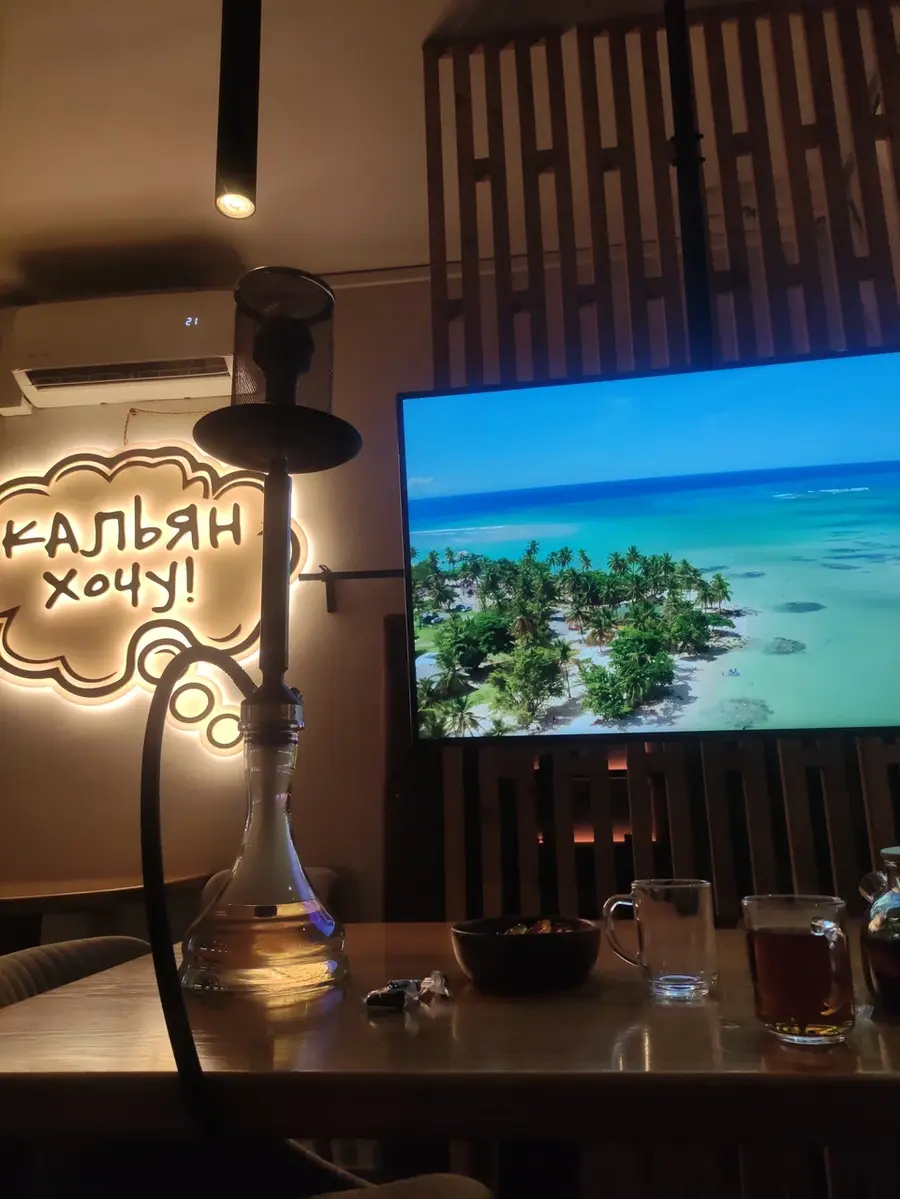
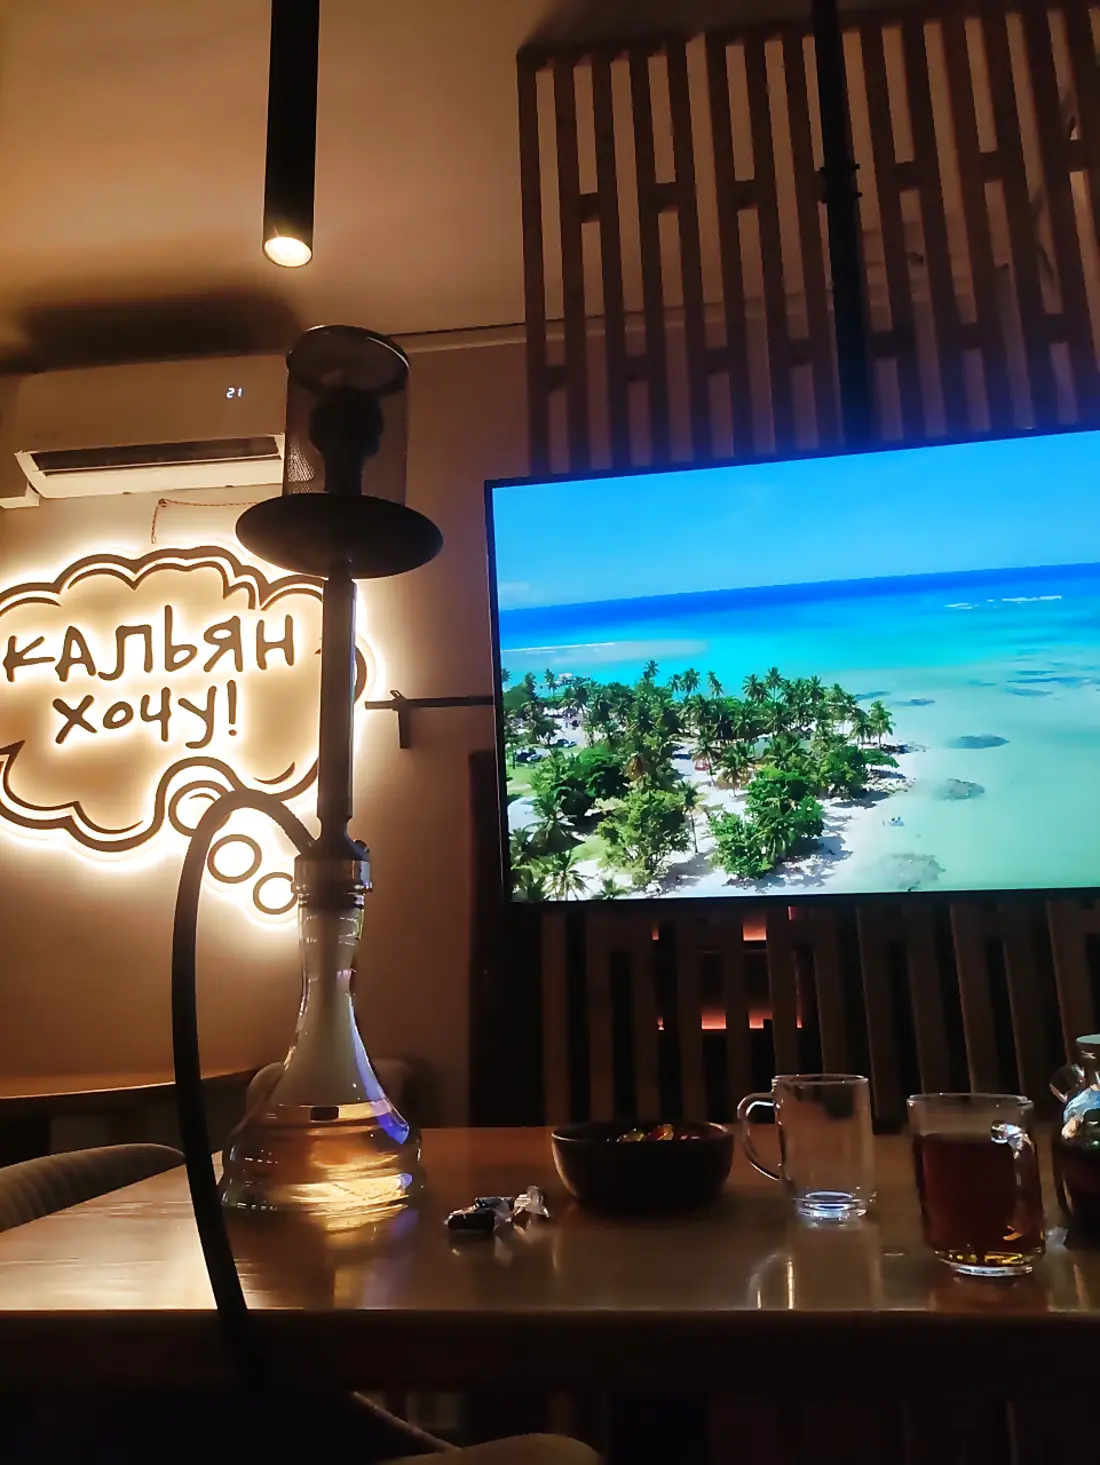
Hero: enhanced photo and animated hookah smoke
Claude-Session: https://claude.ai/code/session_01HA7XB3jdMdnJqmsJwJvHRE

diff --git a/index.html b/index.html
@@ -47,6 +47,7 @@ a { color: inherit; }
 .hero-media { position: absolute; inset: 0 0 0 auto; width: 60%; margin: 0; }
 .hero-media img { display: block; width: 100%; height: 100%; object-fit: cover; object-position: 12% 40%; }
 .hero-media::after { content: ""; position: absolute; inset: 0; pointer-events: none; background: linear-gradient(90deg, rgb(21 20 22) 0%, rgb(21 20 22 / .94) 8%, rgb(21 20 22 / .82) 15%, rgb(21 20 22 / .64) 23%, rgb(21 20 22 / .44) 31%, rgb(21 20 22 / .26) 39%, rgb(21 20 22 / .12) 47%, rgb(21 20 22 / .04) 55%, rgb(21 20 22 / 0) 62%), linear-gradient(0deg, rgb(21 20 22) 0%, rgb(21 20 22 / .6) 10%, rgb(21 20 22 / 0) 30%), linear-gradient(180deg, rgb(21 20 22 / .5) 0%, rgb(21 20 22 / 0) 18%); }
+.smoke { position: absolute; inset: 0; width: 100%; height: 100%; pointer-events: none; z-index: 0; mix-blend-mode: screen; }
 .hours { display: inline-flex; flex-wrap: wrap; gap: 6px 14px; margin: 0 0 22px; color: var(--muted); font-size: .9rem; letter-spacing: .02em; }
 .hours strong { color: var(--accent); font-weight: 700; font-variant-numeric: tabular-nums; }
 h1 { font-family: var(--font-display); font-weight: 400; font-size: clamp(3.4rem, 9vw, 7rem); line-height: .95; margin: 0 0 24px; text-wrap: balance; }
@@ -193,8 +194,9 @@ h1 .want { color: var(--accent); display: inline-block; transform: rotate(-3deg)
 <main id="top">
   <section class="hero">
     <figure class="hero-media">
-        <img src="img/hero-neon.webp" width="900" height="1199" alt="Кальян на столе на фоне светящейся вывески «Кальян хочу!»" fetchpriority="high">
+        <img src="img/hero-neon.webp" width="1100" height="1465" alt="Кальян на столе на фоне светящейся вывески «Кальян хочу!»" fetchpriority="high">
       </figure>
+    <canvas class="smoke" aria-hidden="true"></canvas>
     <div class="wrap">
       <div class="hero-copy">
         <p class="hours rise"><span>Каждый день <strong>12:00-06:00</strong></span><span>пер. Бринько, 2</span></p>
@@ -207,6 +209,56 @@ h1 .want { color: var(--accent); display: inline-block; transform: rotate(-3deg)
       </div>
     </div>
   </section>
+
+<script>
+/* Hookah smoke: soft puffs rise from the bowl in the photo and drift across the hero. Static frame for reduced motion. */
+(function () {
+  var hero = document.querySelector('.hero'), cv = hero && hero.querySelector('.smoke'), img = hero && hero.querySelector('.hero-media img');
+  if (!cv || !img || !cv.getContext) return;
+  var ctx = cv.getContext('2d'), dpr = Math.min(window.devicePixelRatio || 1, 2), W = 0, H = 0, src = { x: 0, y: 0, s: 1 }, puffs = [], last = 0;
+  var still = window.matchMedia('(prefers-reduced-motion: reduce)').matches;
+  var BOWL = { x: 0.31, y: 0.235 };               /* bowl position inside the photo, as a share of its width and height */
+  function fit() {
+    var r = hero.getBoundingClientRect(), m = img.getBoundingClientRect();
+    W = r.width; H = r.height; cv.width = W * dpr; cv.height = H * dpr; ctx.setTransform(dpr, 0, 0, dpr, 0, 0);
+    var iw = img.naturalWidth || 1100, ih = img.naturalHeight || 1465, sc = Math.max(m.width / iw, m.height / ih);
+    var pos = getComputedStyle(img).objectPosition.split(' ').map(function (v) { return parseFloat(v) / 100; });
+    var ox = (m.width - iw * sc) * (isNaN(pos[0]) ? .5 : pos[0]), oy = (m.height - ih * sc) * (isNaN(pos[1]) ? .5 : pos[1]);
+    src.x = m.left - r.left + ox + BOWL.x * iw * sc; src.y = m.top - r.top + oy + BOWL.y * ih * sc; src.s = Math.max(.6, Math.min(1.4, sc * iw / 700));
+  }
+  function spawn(age) {
+    puffs.push({ x: src.x + (Math.random() - .5) * 14 * src.s, y: src.y, vx: (Math.random() - .62) * .7, vy: -(.16 + Math.random() * .22),
+      r: (14 + Math.random() * 16) * src.s, g: .32 + Math.random() * .3, a: 0, life: 0, max: 420 + Math.random() * 260, wob: Math.random() * 6.28 });
+    var p = puffs[puffs.length - 1]; if (age) { for (var i = 0; i < age; i++) step(p, 1); }
+  }
+  function step(p, dt) {
+    p.life += dt; p.wob += .012 * dt;
+    p.x += (p.vx + Math.sin(p.wob) * .45) * dt; p.y += p.vy * dt; p.vy *= .998; p.vx *= 1.001; p.r += p.g * dt;
+    var t = p.life / p.max; p.a = t < .15 ? t / .15 : Math.max(0, 1 - (t - .15) / .85);
+  }
+  function draw() {
+    ctx.clearRect(0, 0, W, H);
+    for (var i = 0; i < puffs.length; i++) {
+      var p = puffs[i], g = ctx.createRadialGradient(p.x, p.y, 0, p.x, p.y, p.r);
+      g.addColorStop(0, 'rgba(255, 236, 214,' + (.06 * p.a) + ')'); g.addColorStop(1, 'rgba(255, 236, 214, 0)');
+      ctx.fillStyle = g; ctx.beginPath(); ctx.arc(p.x, p.y, p.r, 0, 6.2832); ctx.fill();
+    }
+  }
+  function tick(now) {
+    var dt = Math.min(3, (now - (last || now)) / 16.7); last = now;
+    if (Math.random() < .3 * dt) spawn(0);
+    for (var i = puffs.length - 1; i >= 0; i--) { step(puffs[i], dt); if (puffs[i].life > puffs[i].max) puffs.splice(i, 1); }
+    draw(); if (running) requestAnimationFrame(tick);
+  }
+  var running = false;
+  function start() { fit(); puffs = []; for (var i = 0; i < 70; i++) spawn(Math.random() * 600); draw(); if (!still && !running) { running = true; requestAnimationFrame(tick); } }
+  if (img.complete) start(); else img.addEventListener('load', start);
+  window.addEventListener('resize', fit);
+  if ('IntersectionObserver' in window && !still) new IntersectionObserver(function (e) {
+    if (e[0].isIntersecting) { if (!running) { running = true; last = 0; requestAnimationFrame(tick); } } else running = false;
+  }).observe(hero);
+})();
+</script>
 
   <section class="menu" id="menu">
     <div class="wrap">

diff --git a/src/preview.html b/src/preview.html
@@ -42,6 +42,7 @@ a { color: inherit; }
 .hero-media { position: absolute; inset: 0 0 0 auto; width: 60%; margin: 0; }
 .hero-media img { display: block; width: 100%; height: 100%; object-fit: cover; object-position: 12% 40%; }
 .hero-media::after { content: ""; position: absolute; inset: 0; pointer-events: none; background: linear-gradient(90deg, rgb(21 20 22) 0%, rgb(21 20 22 / .94) 8%, rgb(21 20 22 / .82) 15%, rgb(21 20 22 / .64) 23%, rgb(21 20 22 / .44) 31%, rgb(21 20 22 / .26) 39%, rgb(21 20 22 / .12) 47%, rgb(21 20 22 / .04) 55%, rgb(21 20 22 / 0) 62%), linear-gradient(0deg, rgb(21 20 22) 0%, rgb(21 20 22 / .6) 10%, rgb(21 20 22 / 0) 30%), linear-gradient(180deg, rgb(21 20 22 / .5) 0%, rgb(21 20 22 / 0) 18%); }
+.smoke { position: absolute; inset: 0; width: 100%; height: 100%; pointer-events: none; z-index: 0; mix-blend-mode: screen; }
 .hours { display: inline-flex; flex-wrap: wrap; gap: 6px 14px; margin: 0 0 22px; color: var(--muted); font-size: .9rem; letter-spacing: .02em; }
 .hours strong { color: var(--accent); font-weight: 700; font-variant-numeric: tabular-nums; }
 h1 { font-family: var(--font-display); font-weight: 400; font-size: clamp(3.4rem, 9vw, 7rem); line-height: .95; margin: 0 0 24px; text-wrap: balance; }
@@ -186,8 +187,9 @@ h1 .want { color: var(--accent); display: inline-block; transform: rotate(-3deg)
 <main id="top">
   <section class="hero">
     <figure class="hero-media">
-        <img src="img/hero-neon.webp" width="900" height="1199" alt="Кальян на столе на фоне светящейся вывески «Кальян хочу!»" fetchpriority="high">
+        <img src="img/hero-neon.webp" width="1100" height="1465" alt="Кальян на столе на фоне светящейся вывески «Кальян хочу!»" fetchpriority="high">
       </figure>
+    <canvas class="smoke" aria-hidden="true"></canvas>
     <div class="wrap">
       <div class="hero-copy">
         <p class="hours rise"><span>Каждый день <strong>12:00-06:00</strong></span><span>пер. Бринько, 2</span></p>
@@ -200,6 +202,56 @@ h1 .want { color: var(--accent); display: inline-block; transform: rotate(-3deg)
       </div>
     </div>
   </section>
+
+<script>
+/* Hookah smoke: soft puffs rise from the bowl in the photo and drift across the hero. Static frame for reduced motion. */
+(function () {
+  var hero = document.querySelector('.hero'), cv = hero && hero.querySelector('.smoke'), img = hero && hero.querySelector('.hero-media img');
+  if (!cv || !img || !cv.getContext) return;
+  var ctx = cv.getContext('2d'), dpr = Math.min(window.devicePixelRatio || 1, 2), W = 0, H = 0, src = { x: 0, y: 0, s: 1 }, puffs = [], last = 0;
+  var still = window.matchMedia('(prefers-reduced-motion: reduce)').matches;
+  var BOWL = { x: 0.31, y: 0.235 };               /* bowl position inside the photo, as a share of its width and height */
+  function fit() {
+    var r = hero.getBoundingClientRect(), m = img.getBoundingClientRect();
+    W = r.width; H = r.height; cv.width = W * dpr; cv.height = H * dpr; ctx.setTransform(dpr, 0, 0, dpr, 0, 0);
+    var iw = img.naturalWidth || 1100, ih = img.naturalHeight || 1465, sc = Math.max(m.width / iw, m.height / ih);
+    var pos = getComputedStyle(img).objectPosition.split(' ').map(function (v) { return parseFloat(v) / 100; });
+    var ox = (m.width - iw * sc) * (isNaN(pos[0]) ? .5 : pos[0]), oy = (m.height - ih * sc) * (isNaN(pos[1]) ? .5 : pos[1]);
+    src.x = m.left - r.left + ox + BOWL.x * iw * sc; src.y = m.top - r.top + oy + BOWL.y * ih * sc; src.s = Math.max(.6, Math.min(1.4, sc * iw / 700));
+  }
+  function spawn(age) {
+    puffs.push({ x: src.x + (Math.random() - .5) * 14 * src.s, y: src.y, vx: (Math.random() - .62) * .7, vy: -(.16 + Math.random() * .22),
+      r: (14 + Math.random() * 16) * src.s, g: .32 + Math.random() * .3, a: 0, life: 0, max: 420 + Math.random() * 260, wob: Math.random() * 6.28 });
+    var p = puffs[puffs.length - 1]; if (age) { for (var i = 0; i < age; i++) step(p, 1); }
+  }
+  function step(p, dt) {
+    p.life += dt; p.wob += .012 * dt;
+    p.x += (p.vx + Math.sin(p.wob) * .45) * dt; p.y += p.vy * dt; p.vy *= .998; p.vx *= 1.001; p.r += p.g * dt;
+    var t = p.life / p.max; p.a = t < .15 ? t / .15 : Math.max(0, 1 - (t - .15) / .85);
+  }
+  function draw() {
+    ctx.clearRect(0, 0, W, H);
+    for (var i = 0; i < puffs.length; i++) {
+      var p = puffs[i], g = ctx.createRadialGradient(p.x, p.y, 0, p.x, p.y, p.r);
+      g.addColorStop(0, 'rgba(255, 236, 214,' + (.06 * p.a) + ')'); g.addColorStop(1, 'rgba(255, 236, 214, 0)');
+      ctx.fillStyle = g; ctx.beginPath(); ctx.arc(p.x, p.y, p.r, 0, 6.2832); ctx.fill();
+    }
+  }
+  function tick(now) {
+    var dt = Math.min(3, (now - (last || now)) / 16.7); last = now;
+    if (Math.random() < .3 * dt) spawn(0);
+    for (var i = puffs.length - 1; i >= 0; i--) { step(puffs[i], dt); if (puffs[i].life > puffs[i].max) puffs.splice(i, 1); }
+    draw(); if (running) requestAnimationFrame(tick);
+  }
+  var running = false;
+  function start() { fit(); puffs = []; for (var i = 0; i < 70; i++) spawn(Math.random() * 600); draw(); if (!still && !running) { running = true; requestAnimationFrame(tick); } }
+  if (img.complete) start(); else img.addEventListener('load', start);
+  window.addEventListener('resize', fit);
+  if ('IntersectionObserver' in window && !still) new IntersectionObserver(function (e) {
+    if (e[0].isIntersecting) { if (!running) { running = true; last = 0; requestAnimationFrame(tick); } } else running = false;
+  }).observe(hero);
+})();
+</script>
 
   <section class="menu" id="menu">
     <div class="wrap">

diff --git a/src/hero.html b/src/hero.html
@@ -42,6 +42,7 @@ a { color: inherit; }
 .hero-media { position: absolute; inset: 0 0 0 auto; width: 60%; margin: 0; }
 .hero-media img { display: block; width: 100%; height: 100%; object-fit: cover; object-position: 12% 40%; }
 .hero-media::after { content: ""; position: absolute; inset: 0; pointer-events: none; background: linear-gradient(90deg, rgb(21 20 22) 0%, rgb(21 20 22 / .94) 8%, rgb(21 20 22 / .82) 15%, rgb(21 20 22 / .64) 23%, rgb(21 20 22 / .44) 31%, rgb(21 20 22 / .26) 39%, rgb(21 20 22 / .12) 47%, rgb(21 20 22 / .04) 55%, rgb(21 20 22 / 0) 62%), linear-gradient(0deg, rgb(21 20 22) 0%, rgb(21 20 22 / .6) 10%, rgb(21 20 22 / 0) 30%), linear-gradient(180deg, rgb(21 20 22 / .5) 0%, rgb(21 20 22 / 0) 18%); }
+.smoke { position: absolute; inset: 0; width: 100%; height: 100%; pointer-events: none; z-index: 0; mix-blend-mode: screen; }
 .hours { display: inline-flex; flex-wrap: wrap; gap: 6px 14px; margin: 0 0 22px; color: var(--muted); font-size: .9rem; letter-spacing: .02em; }
 .hours strong { color: var(--accent); font-weight: 700; font-variant-numeric: tabular-nums; }
 h1 { font-family: var(--font-display); font-weight: 400; font-size: clamp(3.4rem, 9vw, 7rem); line-height: .95; margin: 0 0 24px; text-wrap: balance; }
@@ -95,8 +96,9 @@ h1 .want { color: var(--accent); display: inline-block; transform: rotate(-3deg)
 <main id="top">
   <section class="hero">
     <figure class="hero-media">
-        <img src="img/hero-neon.webp" width="900" height="1199" alt="Кальян на столе на фоне светящейся вывески «Кальян хочу!»" fetchpriority="high">
+        <img src="img/hero-neon.webp" width="1100" height="1465" alt="Кальян на столе на фоне светящейся вывески «Кальян хочу!»" fetchpriority="high">
       </figure>
+    <canvas class="smoke" aria-hidden="true"></canvas>
     <div class="wrap">
       <div class="hero-copy">
         <p class="hours rise"><span>Каждый день <strong>12:00-06:00</strong></span><span>пер. Бринько, 2</span></p>
@@ -109,4 +111,54 @@ h1 .want { color: var(--accent); display: inline-block; transform: rotate(-3deg)
       </div>
     </div>
   </section>
+
+<script>
+/* Hookah smoke: soft puffs rise from the bowl in the photo and drift across the hero. Static frame for reduced motion. */
+(function () {
+  var hero = document.querySelector('.hero'), cv = hero && hero.querySelector('.smoke'), img = hero && hero.querySelector('.hero-media img');
+  if (!cv || !img || !cv.getContext) return;
+  var ctx = cv.getContext('2d'), dpr = Math.min(window.devicePixelRatio || 1, 2), W = 0, H = 0, src = { x: 0, y: 0, s: 1 }, puffs = [], last = 0;
+  var still = window.matchMedia('(prefers-reduced-motion: reduce)').matches;
+  var BOWL = { x: 0.31, y: 0.235 };               /* bowl position inside the photo, as a share of its width and height */
+  function fit() {
+    var r = hero.getBoundingClientRect(), m = img.getBoundingClientRect();
+    W = r.width; H = r.height; cv.width = W * dpr; cv.height = H * dpr; ctx.setTransform(dpr, 0, 0, dpr, 0, 0);
+    var iw = img.naturalWidth || 1100, ih = img.naturalHeight || 1465, sc = Math.max(m.width / iw, m.height / ih);
+    var pos = getComputedStyle(img).objectPosition.split(' ').map(function (v) { return parseFloat(v) / 100; });
+    var ox = (m.width - iw * sc) * (isNaN(pos[0]) ? .5 : pos[0]), oy = (m.height - ih * sc) * (isNaN(pos[1]) ? .5 : pos[1]);
+    src.x = m.left - r.left + ox + BOWL.x * iw * sc; src.y = m.top - r.top + oy + BOWL.y * ih * sc; src.s = Math.max(.6, Math.min(1.4, sc * iw / 700));
+  }
+  function spawn(age) {
+    puffs.push({ x: src.x + (Math.random() - .5) * 14 * src.s, y: src.y, vx: (Math.random() - .62) * .7, vy: -(.16 + Math.random() * .22),
+      r: (14 + Math.random() * 16) * src.s, g: .32 + Math.random() * .3, a: 0, life: 0, max: 420 + Math.random() * 260, wob: Math.random() * 6.28 });
+    var p = puffs[puffs.length - 1]; if (age) { for (var i = 0; i < age; i++) step(p, 1); }
+  }
+  function step(p, dt) {
+    p.life += dt; p.wob += .012 * dt;
+    p.x += (p.vx + Math.sin(p.wob) * .45) * dt; p.y += p.vy * dt; p.vy *= .998; p.vx *= 1.001; p.r += p.g * dt;
+    var t = p.life / p.max; p.a = t < .15 ? t / .15 : Math.max(0, 1 - (t - .15) / .85);
+  }
+  function draw() {
+    ctx.clearRect(0, 0, W, H);
+    for (var i = 0; i < puffs.length; i++) {
+      var p = puffs[i], g = ctx.createRadialGradient(p.x, p.y, 0, p.x, p.y, p.r);
+      g.addColorStop(0, 'rgba(255, 236, 214,' + (.06 * p.a) + ')'); g.addColorStop(1, 'rgba(255, 236, 214, 0)');
+      ctx.fillStyle = g; ctx.beginPath(); ctx.arc(p.x, p.y, p.r, 0, 6.2832); ctx.fill();
+    }
+  }
+  function tick(now) {
+    var dt = Math.min(3, (now - (last || now)) / 16.7); last = now;
+    if (Math.random() < .3 * dt) spawn(0);
+    for (var i = puffs.length - 1; i >= 0; i--) { step(puffs[i], dt); if (puffs[i].life > puffs[i].max) puffs.splice(i, 1); }
+    draw(); if (running) requestAnimationFrame(tick);
+  }
+  var running = false;
+  function start() { fit(); puffs = []; for (var i = 0; i < 70; i++) spawn(Math.random() * 600); draw(); if (!still && !running) { running = true; requestAnimationFrame(tick); } }
+  if (img.complete) start(); else img.addEventListener('load', start);
+  window.addEventListener('resize', fit);
+  if ('IntersectionObserver' in window && !still) new IntersectionObserver(function (e) {
+    if (e[0].isIntersecting) { if (!running) { running = true; last = 0; requestAnimationFrame(tick); } } else running = false;
+  }).observe(hero);
+})();
+</script>
 </main>
